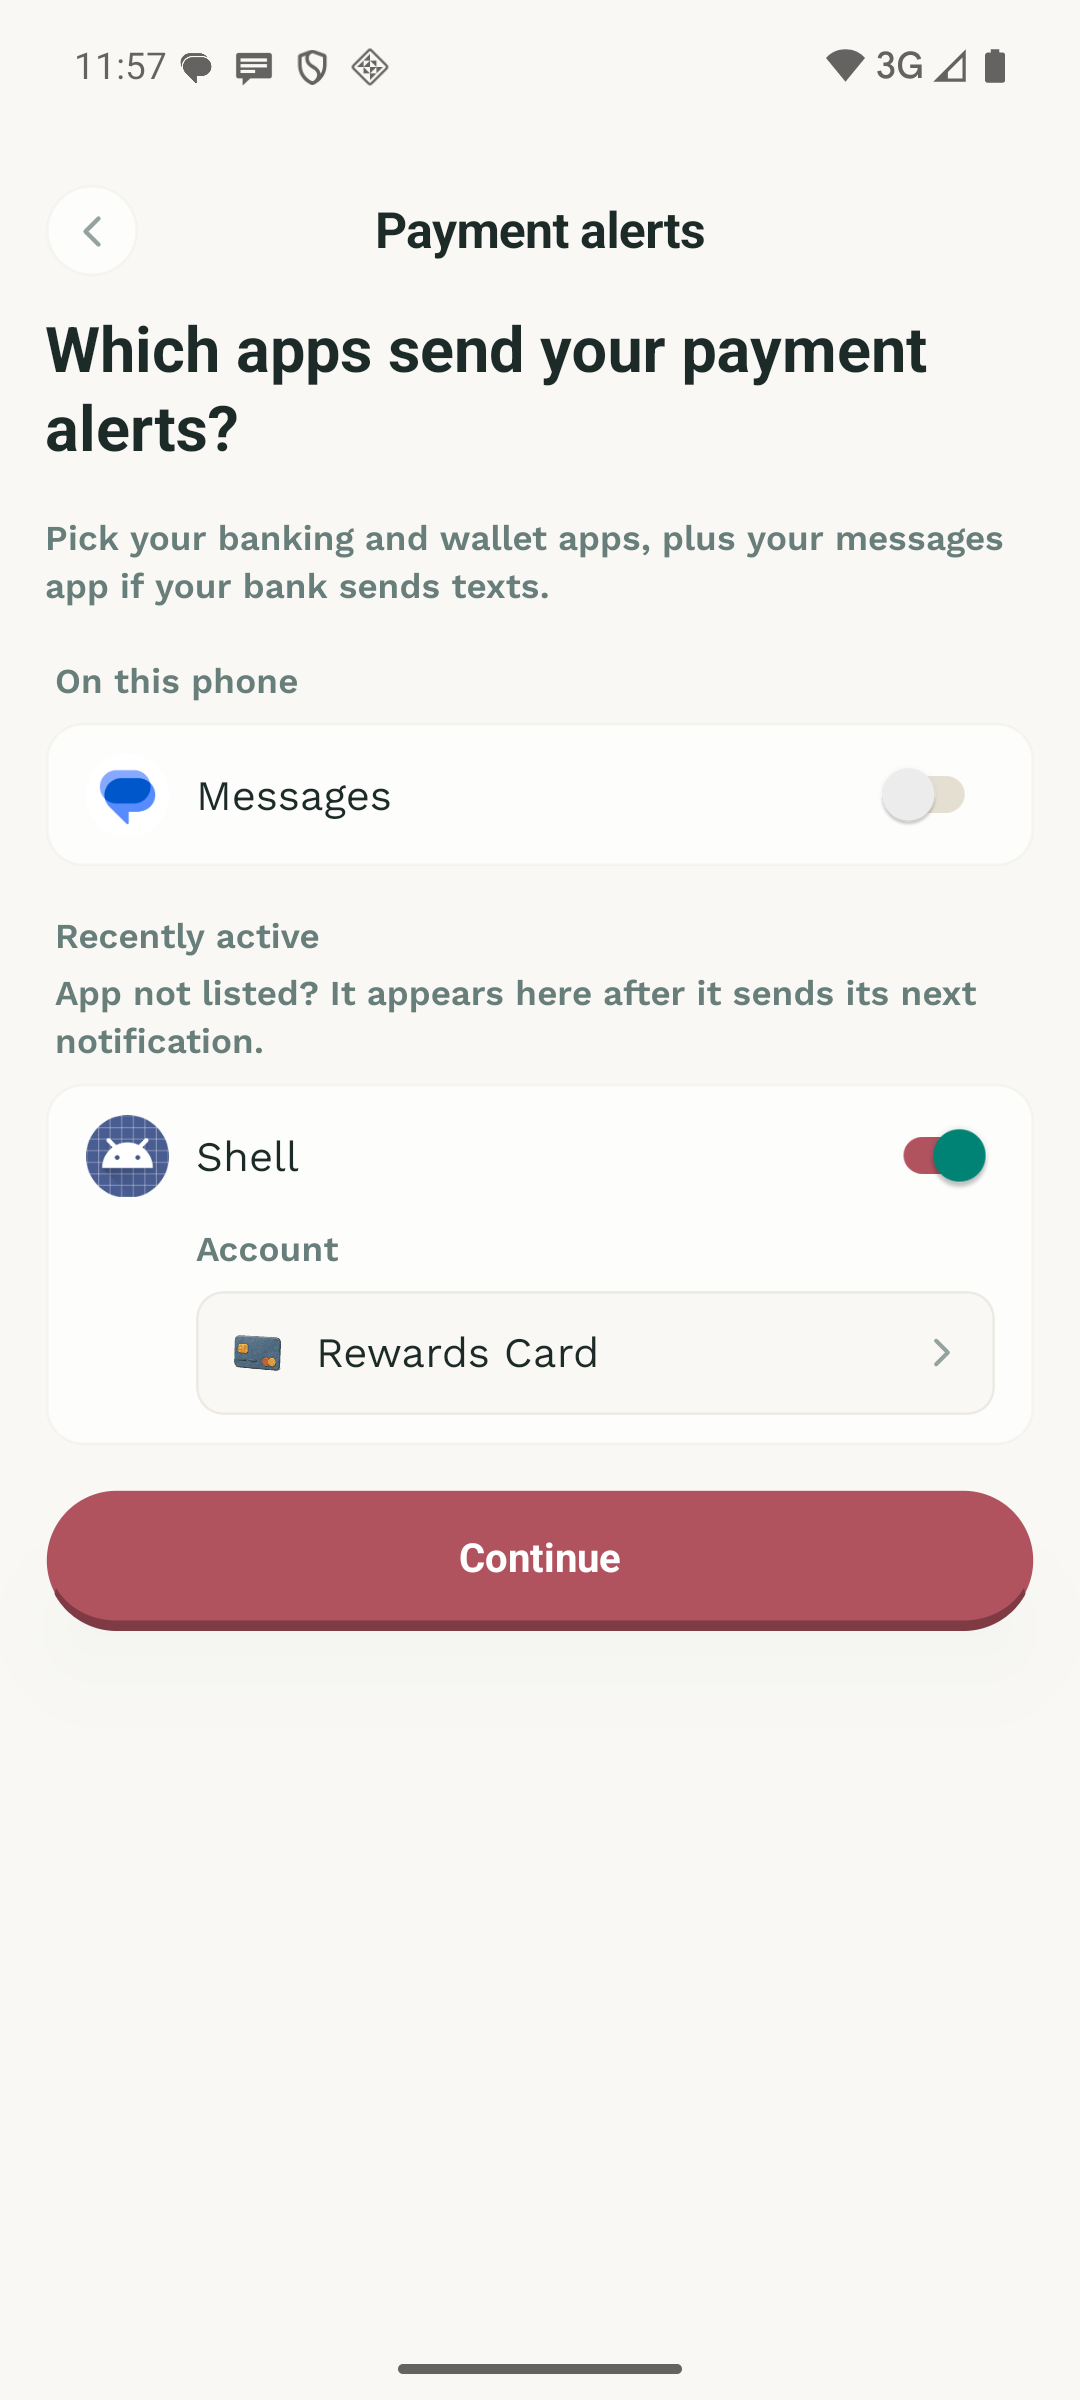
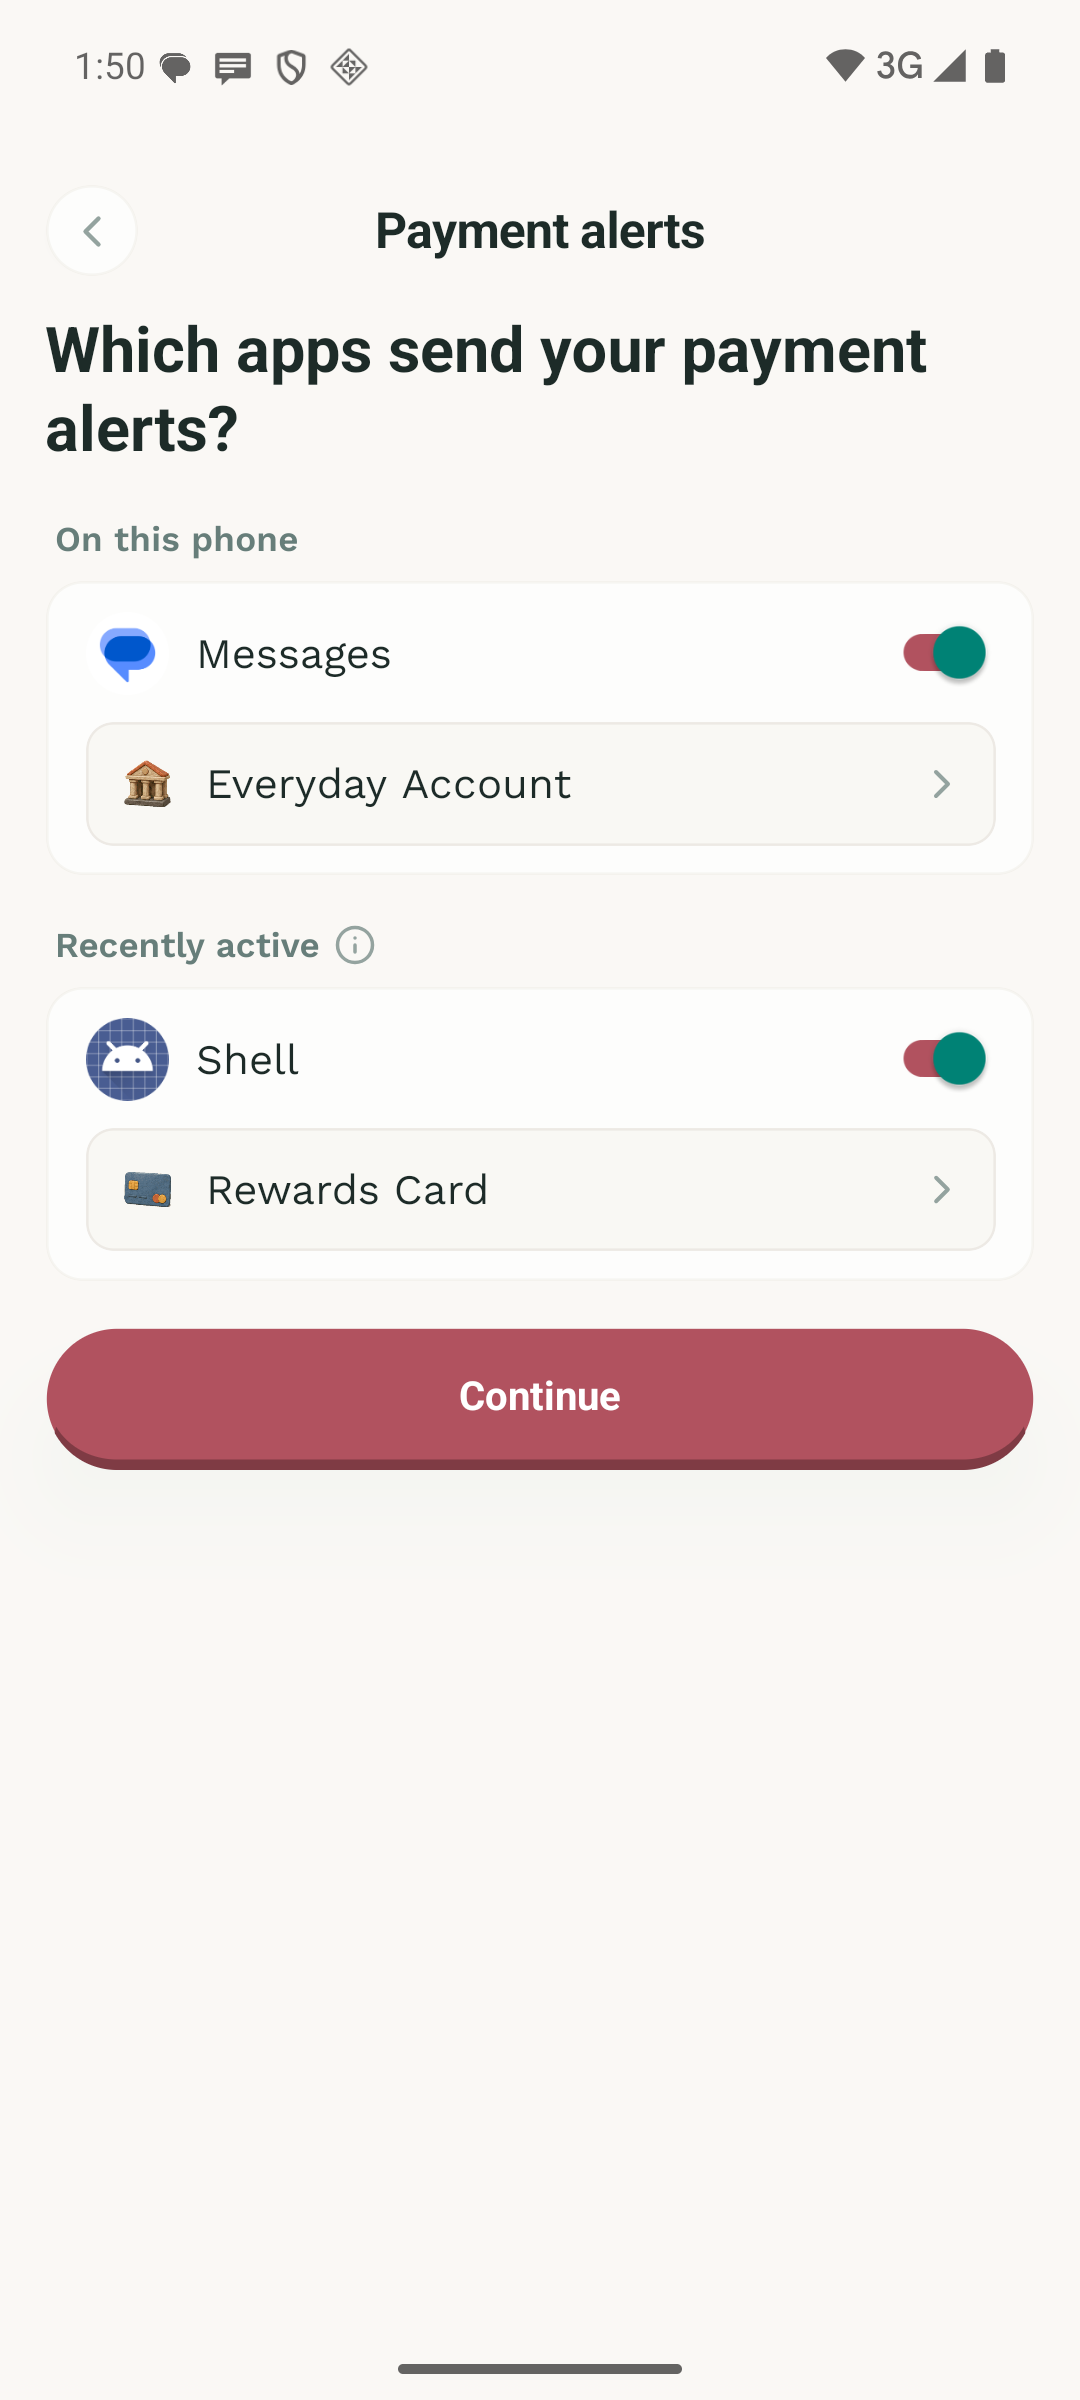
Simplify Android payment alert setup

diff --git a/features/autoLog/screens/PaymentAlertSourceScreen.tsx b/features/autoLog/screens/PaymentAlertSourceScreen.tsx
@@ -1,5 +1,6 @@
+import { Trash2 } from 'lucide-react-native';
 import React, { useCallback } from 'react';
-import { Alert, ScrollView, View } from 'react-native';
+import { Alert, Pressable, ScrollView, View } from 'react-native';
 
 import {
   Button,
@@ -10,7 +11,9 @@ import {
   useSettingsBottomNavInset,
 } from '~/components/ui';
 import { useApp } from '~/context/AppContext';
+import { useThemeColors } from '~/hooks/useThemeColors';
 import { I18n } from '~/lib/i18n';
+import { triggerHaptic } from '~/services/haptics';
 import type { PaymentAlertChannel, PaymentAlertSource } from '~/types';
 
 import { PaysFromControl } from '../components/PaysFromControl';
@@ -29,6 +32,7 @@ export function PaymentAlertSourceScreen({
 }: PaymentAlertSourceScreenProps) {
   const { paymentAlertPrefs: prefs, updatePaymentAlertPrefs: updatePrefs } = useApp();
   const bottomInset = useSettingsBottomNavInset();
+  const colors = useThemeColors();
   const source = findAlertSource(prefs, channel, sourceKey);
   const update = useCallback(
     (patch: Partial<PaymentAlertSource>) => {
@@ -69,6 +73,22 @@ export function PaymentAlertSourceScreen({
             className="px-0 pt-5 pb-0"
             onBack={onBack}
             title={source?.label ?? I18n.t('payment_alerts.title')}
+            rightAccessory={
+              source && channel === 'android_notification' ? (
+                <Pressable
+                  accessibilityRole="button"
+                  accessibilityLabel={I18n.t('common.remove')}
+                  hitSlop={8}
+                  className="h-10 w-10 items-center justify-center rounded-full bg-destructive/10"
+                  onPress={() => {
+                    void triggerHaptic('selection');
+                    remove();
+                  }}
+                >
+                  <Trash2 size={18} color={colors.error} />
+                </Pressable>
+              ) : undefined
+            }
           />
           {source ? (
             <>
@@ -92,9 +112,11 @@ export function PaymentAlertSourceScreen({
                   onChange={(accountId) => update({ accountId })}
                 />
               </View>
-              <Button variant="ghost" onPress={remove}>
-                <Text className="text-destructive">{I18n.t('common.remove')}</Text>
-              </Button>
+              {channel !== 'android_notification' ? (
+                <Button variant="ghost" onPress={remove}>
+                  <Text className="text-destructive">{I18n.t('common.remove')}</Text>
+                </Button>
+              ) : null}
             </>
           ) : (
             <Text tone="muted">{I18n.t('payment_alerts.source_missing')}</Text>

diff --git a/features/autoLog/screens/PaymentAlertsSettingsScreen.tsx b/features/autoLog/screens/PaymentAlertsSettingsScreen.tsx
@@ -1,4 +1,4 @@
-import { BookOpen, ChevronRight } from 'lucide-react-native';
+import { ChevronRight } from 'lucide-react-native';
 import React, { useCallback, useEffect, useMemo, useState } from 'react';
 import { AppState, Platform, Pressable, ScrollView, View } from 'react-native';
 
@@ -117,7 +117,6 @@ export function PaymentAlertsSettingsScreen({
 }: PaymentAlertsSettingsScreenProps) {
   const { accounts } = useApp();
   const { paymentAlertPrefs: prefs, updatePaymentAlertPrefs: updatePrefs } = useApp();
-  const colors = useThemeColors();
   const bottomInset = useSettingsBottomNavInset();
   const [listener, setListener] = useState<NotificationListenerState | null>(null);
   const [status, setStatus] = useState(() => readListenerStatus());
@@ -273,18 +272,6 @@ export function PaymentAlertsSettingsScreen({
                 ) : null}
               </Card>
             </View>
-          ) : null}
-          {IS_ANDROID ? (
-            <Pressable
-              className="flex-row items-center justify-center gap-2 py-2"
-              accessibilityRole="button"
-              onPress={() => onOpenTutorial('paymentAlertsAndroid')}
-            >
-              <BookOpen size={16} color={colors.primary} />
-              <Text variant="caption" tone="primary">
-                {I18n.t('settings.auto_log.tutorial_button')}
-              </Text>
-            </Pressable>
           ) : null}
         </View>
       </ScrollView>

diff --git a/features/autoLog/screens/PaymentAlertsSetupScreen.tsx b/features/autoLog/screens/PaymentAlertsSetupScreen.tsx
@@ -285,9 +285,6 @@ export function PaymentAlertsSetupScreen({ initialStep, onClose }: PaymentAlerts
             <Text variant="heading" className="text-foreground">
               {I18n.t('payment_alerts.apps_title')}
             </Text>
-            <Text variant="caption" tone="muted">
-              {I18n.t('payment_alerts.apps_body')}
-            </Text>
             <AppPickerList
               selected={selected}
               onToggle={toggleApp}
@@ -295,15 +292,10 @@ export function PaymentAlertsSetupScreen({ initialStep, onClose }: PaymentAlerts
                 const source = findAlertSource(prefs, 'android_notification', app.package);
                 if (!source) return null;
                 return (
-                  <View className="gap-2 pl-12">
-                    <Text variant="caption" tone="muted">
-                      {I18n.t('transactions.editor.account')}
-                    </Text>
-                    <PaysFromControl
-                      accountId={source.accountId}
-                      onChange={(accountId) => setBinding(source, accountId)}
-                    />
-                  </View>
+                  <PaysFromControl
+                    accountId={source.accountId}
+                    onChange={(accountId) => setBinding(source, accountId)}
+                  />
                 );
               }}
             />

diff --git a/features/autoLog/components/AppPickerList.tsx b/features/autoLog/components/AppPickerList.tsx
@@ -1,7 +1,7 @@
 import React, { useCallback, useEffect, useMemo, useState } from 'react';
 import { AppState, Image, Switch, View } from 'react-native';
 
-import { ClayIcon, Text } from '~/components/ui';
+import { ClayIcon, InfoTooltipButton, Text } from '~/components/ui';
 import { useThemeColors } from '~/hooks/useThemeColors';
 import { I18n } from '~/lib/i18n';
 import { triggerHaptic } from '~/services/haptics';
@@ -149,15 +149,11 @@ export function AppPickerList({ selected, onToggle, renderSelectedDetail }: AppP
   const section = (title: string, apps: PickableApp[], hint?: string) =>
     apps.length > 0 || hint ? (
       <View className="gap-2">
-        <View className="gap-1 px-1">
+        <View className="flex-row items-center gap-1.5 px-1">
           <Text variant="caption" tone="muted">
             {title}
           </Text>
-          {hint ? (
-            <Text variant="caption" tone="muted">
-              {hint}
-            </Text>
-          ) : null}
+          {hint ? <InfoTooltipButton title={title} infoTooltip={hint} /> : null}
         </View>
         {apps.length > 0 ? (
           <View className="overflow-hidden rounded-2xl border border-border/30 bg-card">

diff --git a/lib/i18n/locales/hi.ts b/lib/i18n/locales/hi.ts
@@ -2621,7 +2621,6 @@ const hi = {
     access_greyed_body:
       'Android, Google Play के बाहर से इंस्टॉल किए गए ऐप्स के लिए इसे रोकता है। सेटिंग्स, ऐप्स, Money2Time खोलें, ऊपर का मेनू टैप करें, प्रतिबंधित सेटिंग्स की अनुमति दें चुनें, फिर दोबारा कोशिश करें।',
     apps_title: 'कौन से ऐप्स आपके भुगतान अलर्ट भेजते हैं?',
-    apps_body: 'अपने बैंकिंग और वॉलेट ऐप्स चुनें, और अगर बैंक SMS भेजता है तो मैसेज ऐप भी।',
     apps_suggested: 'इस फ़ोन पर',
     apps_recent: 'हाल ही में सक्रिय',
     apps_missing_hint: 'ऐप सूची में नहीं है? अगली सूचना भेजने के बाद यह यहां दिखेगा।',

diff --git a/lib/i18n/locales/th.ts b/lib/i18n/locales/th.ts
@@ -2585,7 +2585,6 @@ const th = {
     access_greyed_body:
       'Android จำกัดสิทธิ์นี้สำหรับแอปที่ติดตั้งนอก Google Play เปิดการตั้งค่า > แอป > Money2Time แตะเมนูด้านบน เลือกอนุญาตการตั้งค่าที่จำกัด แล้วลองอีกครั้ง',
     apps_title: 'แอปไหนส่งการแจ้งเตือนการชำระเงินให้คุณ',
-    apps_body: 'เลือกแอปธนาคารและแอปวอลเล็ต รวมถึงแอปข้อความหากธนาคารส่ง SMS',
     apps_suggested: 'แอปในโทรศัพท์นี้',
     apps_recent: 'ใช้งานล่าสุด',
     apps_missing_hint: 'ไม่พบแอป? แอปจะปรากฏที่นี่หลังจากส่งการแจ้งเตือนครั้งถัดไป',

diff --git a/lib/i18n/locales/ru.ts b/lib/i18n/locales/ru.ts
@@ -2637,8 +2637,6 @@ const ru = {
     access_greyed_body:
       'Android блокирует это для приложений, установленных не из Google Play. Откройте Настройки, Приложения, Money2Time, нажмите меню вверху, выберите «Разрешить доступ к настройкам с ограничениями» и попробуйте снова.',
     apps_title: 'Какие приложения присылают уведомления о платежах?',
-    apps_body:
-      'Выберите банковские приложения и кошельки, а также приложение сообщений, если банк присылает SMS.',
     apps_suggested: 'На этом телефоне',
     apps_recent: 'Недавно активные',
     apps_missing_hint: 'Нет нужного приложения? Оно появится здесь после следующего уведомления.',

diff --git a/lib/i18n/locales/uk.ts b/lib/i18n/locales/uk.ts
@@ -2630,8 +2630,6 @@ const uk = {
     access_greyed_body:
       'Android блокує це для застосунків, встановлених не з Google Play. Відкрийте Налаштування, Застосунки, Money2Time, торкніться меню вгорі, виберіть «Дозволити обмежені налаштування» і спробуйте ще раз.',
     apps_title: 'Які застосунки надсилають сповіщення про платежі?',
-    apps_body:
-      'Виберіть банківські застосунки й гаманці, а також застосунок повідомлень, якщо банк надсилає SMS.',
     apps_suggested: 'На цьому телефоні',
     apps_recent: 'Нещодавно активні',
     apps_missing_hint:

diff --git a/lib/i18n/locales/ja.ts b/lib/i18n/locales/ja.ts
@@ -2618,8 +2618,6 @@ const ja = {
     access_greyed_body:
       'Android は Google Play 以外からインストールしたアプリを制限します。「設定」>「アプリ」> Money2Time を開き、上部のメニューから「制限付き設定を許可」を選んで、もう一度お試しください。',
     apps_title: '支払い通知を送ってくるアプリは？',
-    apps_body:
-      '銀行アプリと電子マネーアプリを選びます。銀行から SMS が届く場合はメッセージアプリも選んでください。',
     apps_suggested: 'この端末のアプリ',
     apps_recent: '最近の通知',
     apps_missing_hint: 'アプリが見つからない場合は、次の通知が届いた後にここに表示されます。',

diff --git a/lib/i18n/locales/ko.ts b/lib/i18n/locales/ko.ts
@@ -2596,7 +2596,6 @@ const ko = {
     access_greyed_body:
       "Android는 Google Play 외부에서 설치한 앱을 제한합니다. 설정 > 애플리케이션 > Money2Time을 열고 상단 메뉴에서 '제한된 설정 허용'을 선택한 뒤 다시 시도하세요.",
     apps_title: '결제 알림을 보내는 앱은 무엇인가요?',
-    apps_body: '은행 앱과 간편결제 앱을 고르세요. 은행이 문자를 보낸다면 메시지 앱도 고르세요.',
     apps_suggested: '이 휴대폰의 앱',
     apps_recent: '최근 활동한 앱',
     apps_missing_hint: '앱이 목록에 없나요? 다음 알림을 보낸 뒤 여기에 나타납니다.',

diff --git a/lib/i18n/locales/fr.ts b/lib/i18n/locales/fr.ts
@@ -2666,8 +2666,6 @@ const fr = {
     access_greyed_body:
       'Android bloque cet accès pour les applis installées hors de Google Play. Ouvrez Paramètres, Applications, Money2Time, touchez le menu en haut, choisissez Autoriser les paramètres restreints, puis réessayez.',
     apps_title: 'Quelles applis envoient vos alertes de paiement ?',
-    apps_body:
-      'Choisissez vos applis bancaires et portefeuilles, ainsi que votre appli de messages si votre banque envoie des SMS.',
     apps_suggested: 'Sur ce téléphone',
     apps_recent: 'Actives récemment',
     apps_missing_hint: 'Appli absente ? Elle apparaîtra ici après sa prochaine notification.',

diff --git a/lib/i18n/locales/tr.ts b/lib/i18n/locales/tr.ts
@@ -2641,8 +2641,6 @@ const tr = {
     access_greyed_body:
       "Android, Google Play dışından yüklenen uygulamalar için bunu engeller. Ayarlar, Uygulamalar, Money2Time'ı açın, üstteki menüye dokunun, Kısıtlanmış ayarlara izin ver'i seçin ve yeniden deneyin.",
     apps_title: 'Ödeme bildirimlerinizi hangi uygulamalar gönderiyor?',
-    apps_body:
-      'Banka ve cüzdan uygulamalarınızı, bankanız SMS gönderiyorsa mesajlar uygulamasını da seçin.',
     apps_suggested: 'Bu telefonda',
     apps_recent: 'Son zamanlarda etkin',
     apps_missing_hint: 'Uygulama listede yok mu? Bir sonraki bildiriminden sonra burada görünür.',
